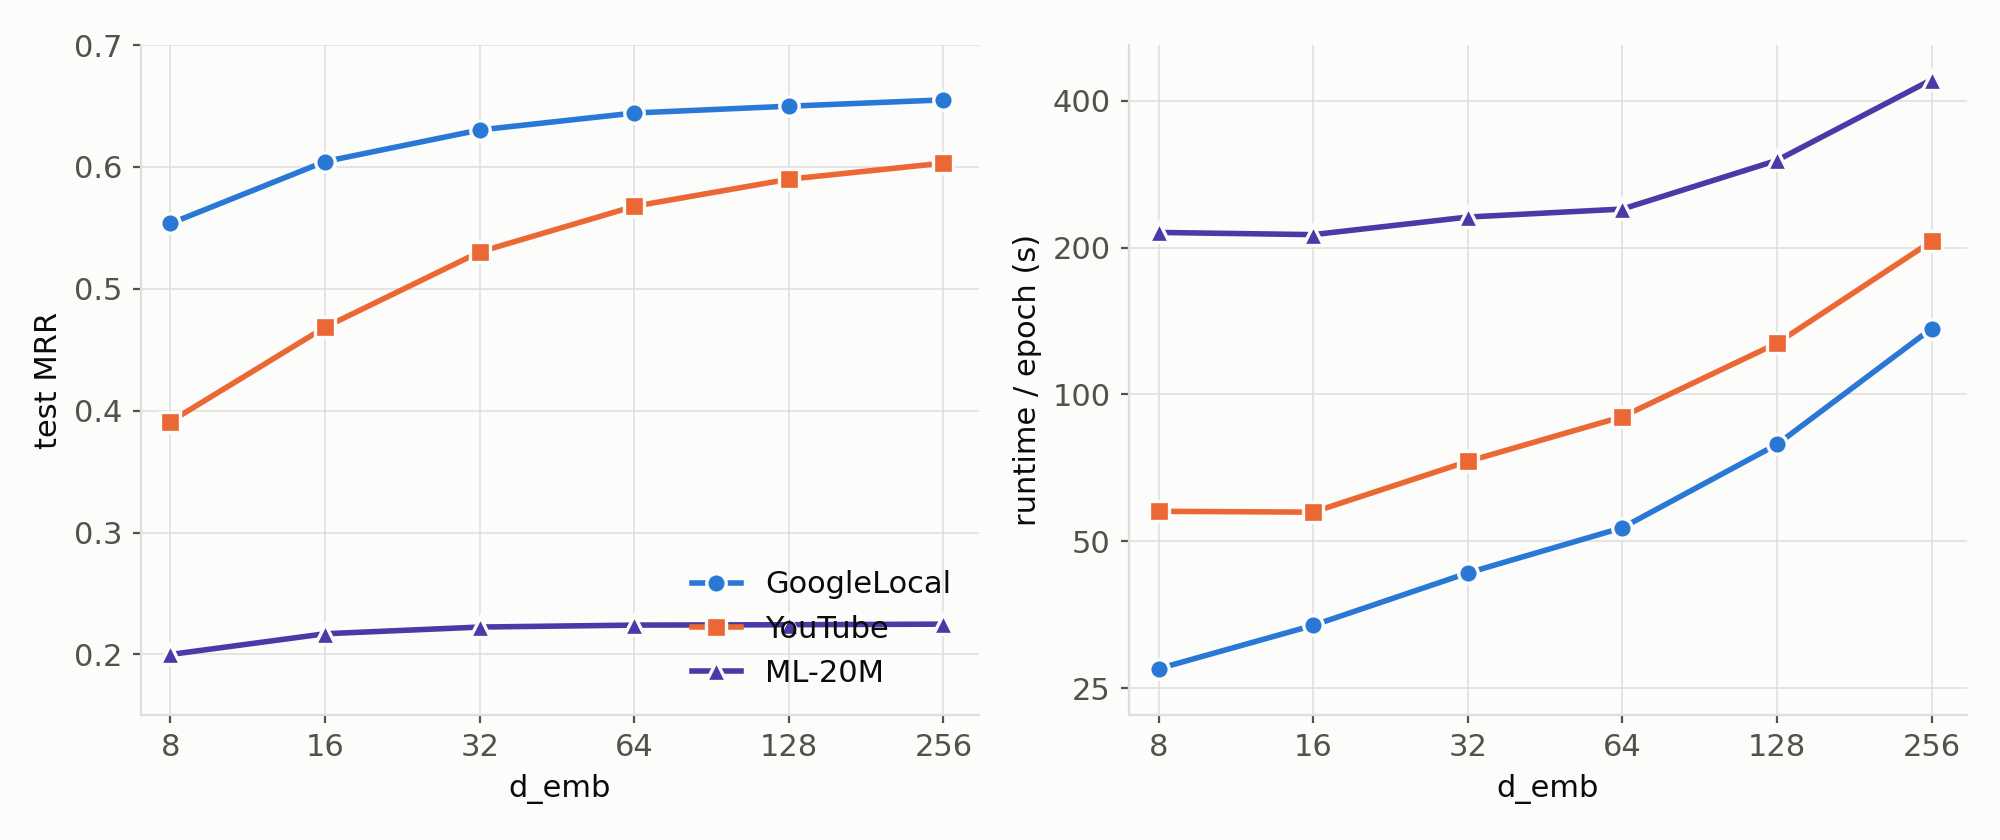
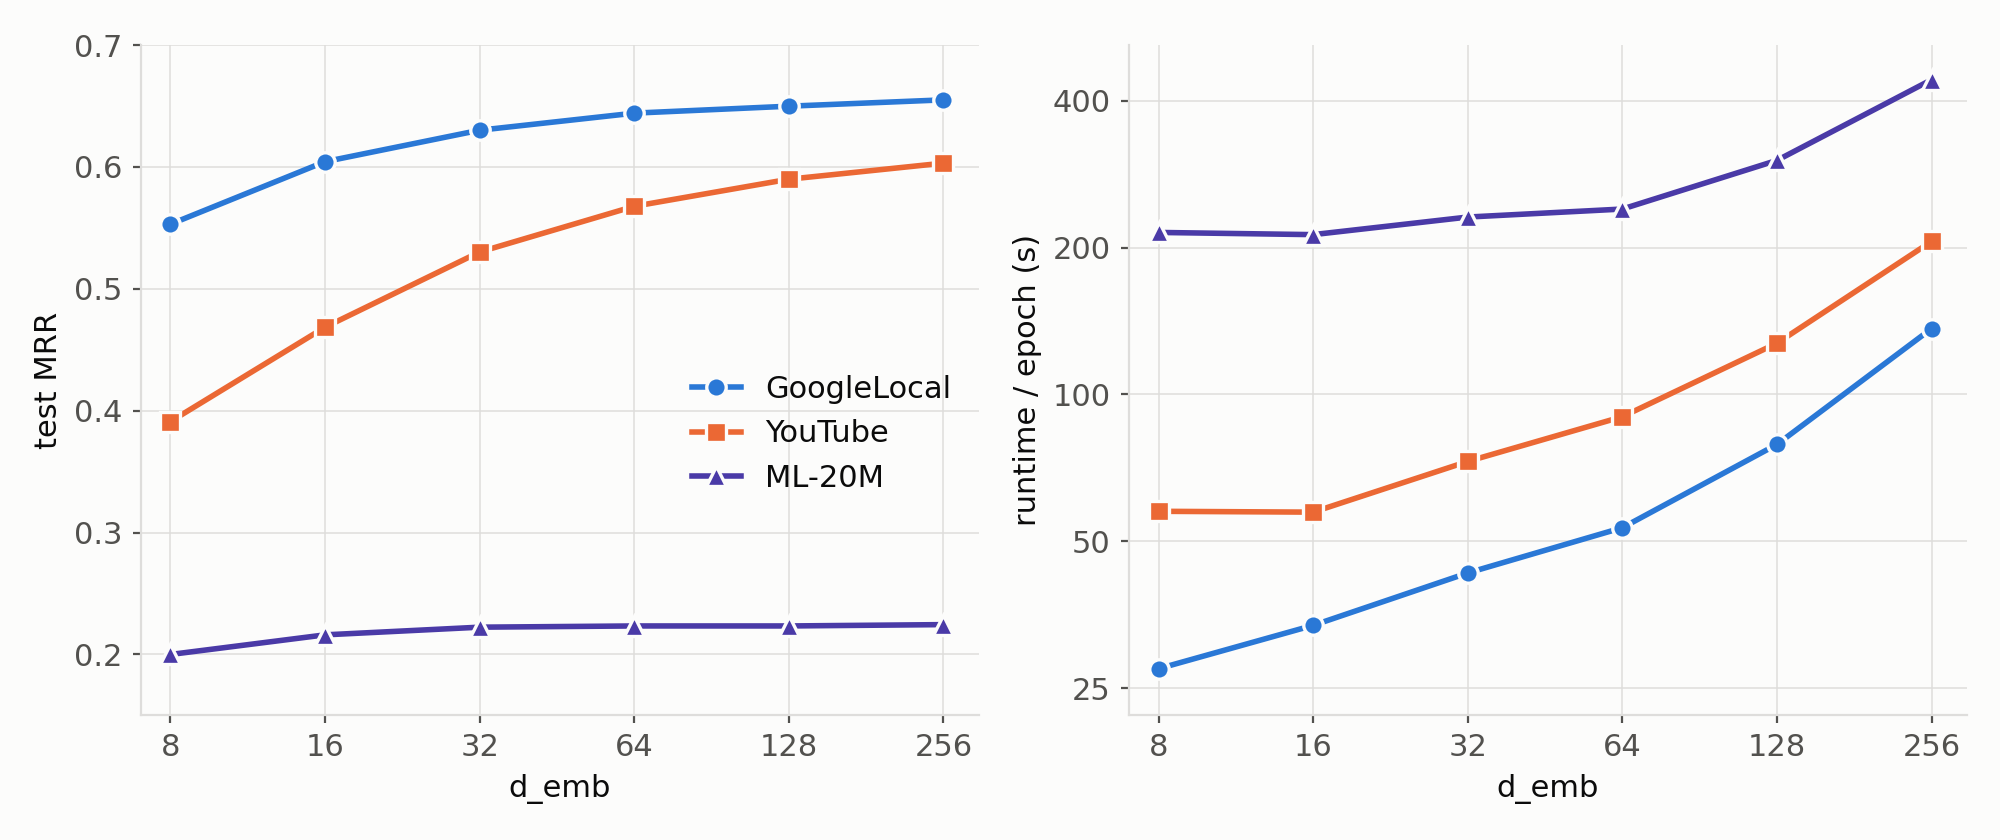
figures: switch the d_emb panel to val-selected test MRR, lift the legend
The left panel plotted max test observed at any epoch; it now plots
best_test_mrr -- test at the best-VAL epoch, which is the metric the
trainer reports and the one comparable to published numbers. The two
differ by at most 0.0009 here (ML-20M d=16: 0.2170 max vs 0.2161 at
checkpoint), so the curves barely move, but the axis now means what its
label says.

The legend sat over the flat ML-20M curve at lower right; moved to
centre-right, into the empty band between the YouTube and ML-20M series.

Claude-Session: https://claude.ai/code/session_01P1JPeqKHAvwUmnZvB7X13A

diff --git a/figures/plot_d_sweep.py b/figures/plot_d_sweep.py
@@ -1,8 +1,9 @@
 """Two-panel d_emb sweep figure: peak test MRR and runtime per epoch.
 
 Data source: experiment_logs/d-sweep/<dataset>/d-<d>.log (seed 42, K_train 5,
-patience 3, 2-param geo_temp head, no pop bias). MRR is max test observed at any
-epoch; runtime is the mean of (train + eval) over the cell's epochs.
+patience 3, 2-param geo_temp head, no pop bias). MRR is best_test_mrr -- test at
+the best-VAL epoch, i.e. the val-selected checkpoint, which is the reported
+metric. Runtime is the mean of (train + eval) over the cell's epochs.
 
 Palette: dataviz categorical slots 1, 2, 7 (blue / orange / violet). Validated
 all-pairs on the light surface #fcfcfb -- worst normal-vision dE 16.3 (floor 15),
@@ -17,14 +18,14 @@ from matplotlib.ticker import FixedLocator, FixedFormatter
 
 DIMS = [8, 16, 32, 64, 128, 256]
 
-# dataset -> (peak test MRR, mean train s, mean eval s) per dim
+# dataset -> (test MRR at best-val checkpoint, mean train s, mean eval s) per dim
 DATA = {
-    "GoogleLocal": [(0.5536, 23.51, 3.92), (0.6044, 30.18, 3.47), (0.6303, 38.30, 4.79),
-                    (0.6442, 48.38, 4.96), (0.6498, 73.47, 5.55), (0.6550, 129.86, 6.63)],
+    "GoogleLocal": [(0.5530, 23.51, 3.92), (0.6043, 30.18, 3.47), (0.6301, 38.30, 4.79),
+                    (0.6441, 48.38, 4.96), (0.6498, 73.47, 5.55), (0.6550, 129.86, 6.63)],
     "YouTube":     [(0.3911, 36.95, 20.68), (0.4685, 41.24, 16.16), (0.5302, 50.34, 22.58),
                     (0.5677, 66.42, 23.64), (0.5899, 100.57, 26.81), (0.6031, 174.20, 31.73)],
-    "ML-20M":      [(0.2000, 189.60, 25.17), (0.2170, 188.91, 23.65), (0.2225, 206.87, 24.07),
-                    (0.2241, 215.74, 24.10), (0.2244, 272.37, 29.38), (0.2249, 405.81, 35.75)],
+    "ML-20M":      [(0.2000, 189.60, 25.17), (0.2161, 188.91, 23.65), (0.2224, 206.87, 24.07),
+                    (0.2234, 215.74, 24.10), (0.2234, 272.37, 29.38), (0.2245, 405.81, 35.75)],
 }
 
 SERIES = [("GoogleLocal", "#2a78d6", "o"),
@@ -72,10 +73,11 @@ ax2.yaxis.set_major_locator(FixedLocator([25, 50, 100, 200, 400]))
 ax2.yaxis.set_major_formatter(FixedFormatter(["25", "50", "100", "200", "400"]))
 ax2.minorticks_off()
 
-ax1.legend(frameon=False, loc="lower right", handlelength=1.6, labelcolor=INK)
+ax1.legend(frameon=False, loc="center right", bbox_to_anchor=(1.0, 0.42),
+           handlelength=1.6, labelcolor=INK)
 
 fig.tight_layout()
 for ext in ("png", "svg"):
-    fig.savefig(f"/its/home/ms2420/tempest-wt-mainline/figures/d_sweep.{ext}",
+    fig.savefig(f"/its/home/ms2420/tempest-wt-masterbr/figures/d_sweep.{ext}",
                 dpi=200, facecolor=SURFACE)
 print("wrote figures/d_sweep.png and figures/d_sweep.svg")
